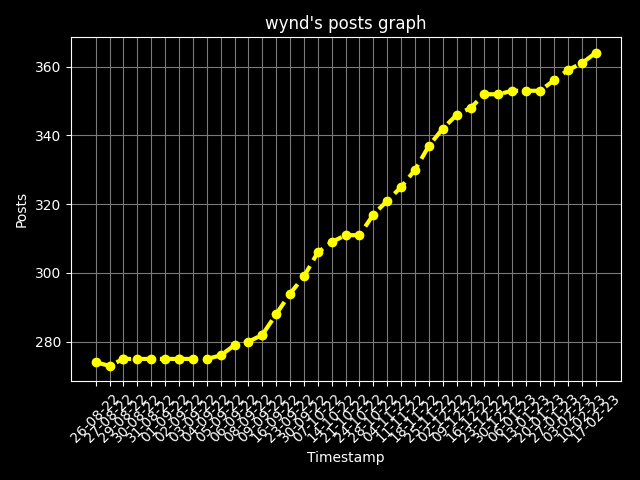
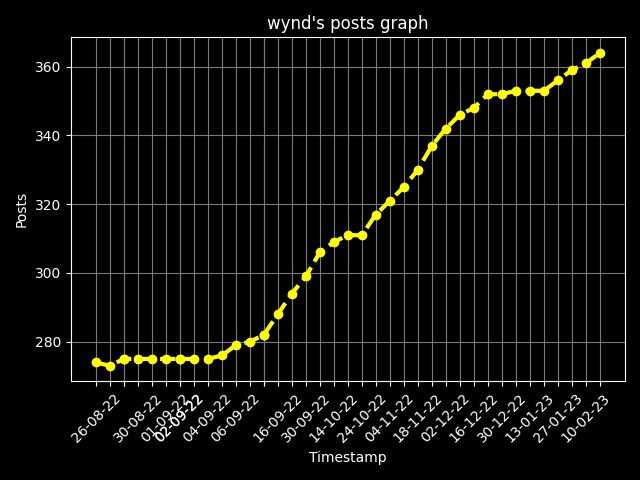
fix crowding + add use for old data

diff --git a/main.py b/main.py
@@ -27,12 +27,15 @@ def graph(user, type, multi=False):
     plt.plot(x, y, "o--", c = "yellow", linewidth=3)
     name = data['name']
     plt.title(f"{name}'s {type} graph")
-    
+
+  if len(x) > 25:
+    label_x = x.copy()
+    label_x[1::2] = len(label_x[1::2]) * [""] #alternate position blank. leaves the first item
   plt.grid(c="#7a7a7a")
   plt.xlabel('Timestamp')
   plt.ylabel(type.title())
   #plt.ticklabel_format(style='sci')
-  plt.xticks(rotation=45)
+  plt.xticks(rotation=45, labels = label_x, ticks = x)
   plt.tight_layout()
   plt.savefig(f"images/{user}-{type}.png", dpi=100)
   plt.close()
@@ -60,6 +63,7 @@ def graph_all():
     lines["posts"].append(ac)
 
 #graph("60db0c5a956cdbbd0489eff6", "posts")
+#"""
 lines = {"following": [], "followers": [], "posts": []}
 graph_all()
 with open("stats/wasteof.json", "w") as file:
@@ -67,3 +71,4 @@ with open("stats/wasteof.json", "w") as file:
 graph("Wasteof", "posts", True)
 graph("Wasteof", "followers", True)
 graph("Wasteof", "following", True)
+#"""

diff --git a/update.py b/update.py
@@ -7,6 +7,7 @@ history_struct = {"followers":[], "following":[], "posts":[], "timestamp":[]}
 def get_list():
   return requests.get("https://Wasteof-api-test.quantumcodes.repl.co/track", headers={ "User-Agent" : "Mozilla/5.0 (X11; Linux x86_64) AppleWebKit/537.36 (KHTML, like Gecko) Chrome/51.0.2704.103 Safari/537.36"}).json()
 
+tracklist = 0
 for i in range(5):
   try:
     tracklist = get_list()
@@ -18,6 +19,10 @@ for i in range(5):
 if type(tracklist) is list:
   with open("tracklist.json", "w") as file:
     file.write(json.dumps(tracklist, indent=2))
+elif tracklist == 0:
+  with open("tracklist.json", "r") as file:
+    tracklist = json.load(file)
+    print("old data :(")
   
 def stats(id):
   user = requests.get(f"https://api.wasteof.money/username-from-id/{id}",  headers=headers).json()["username"]
